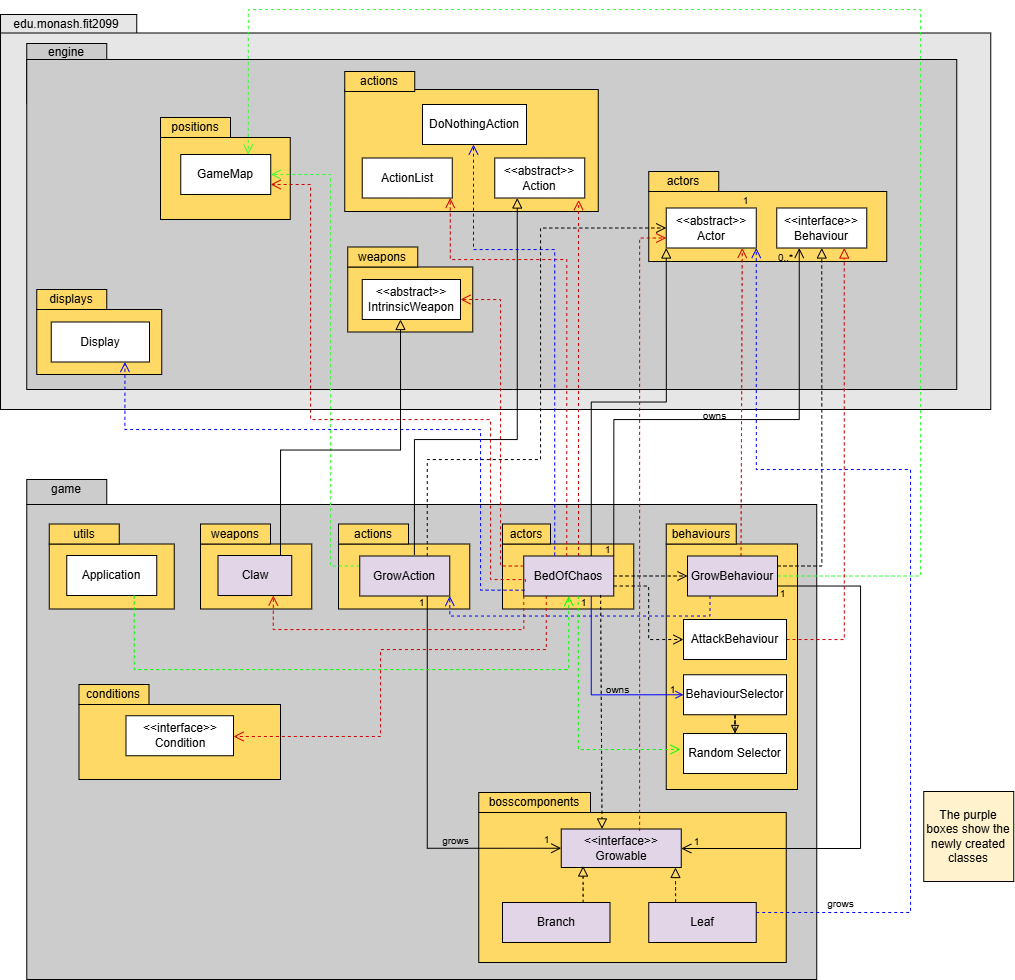
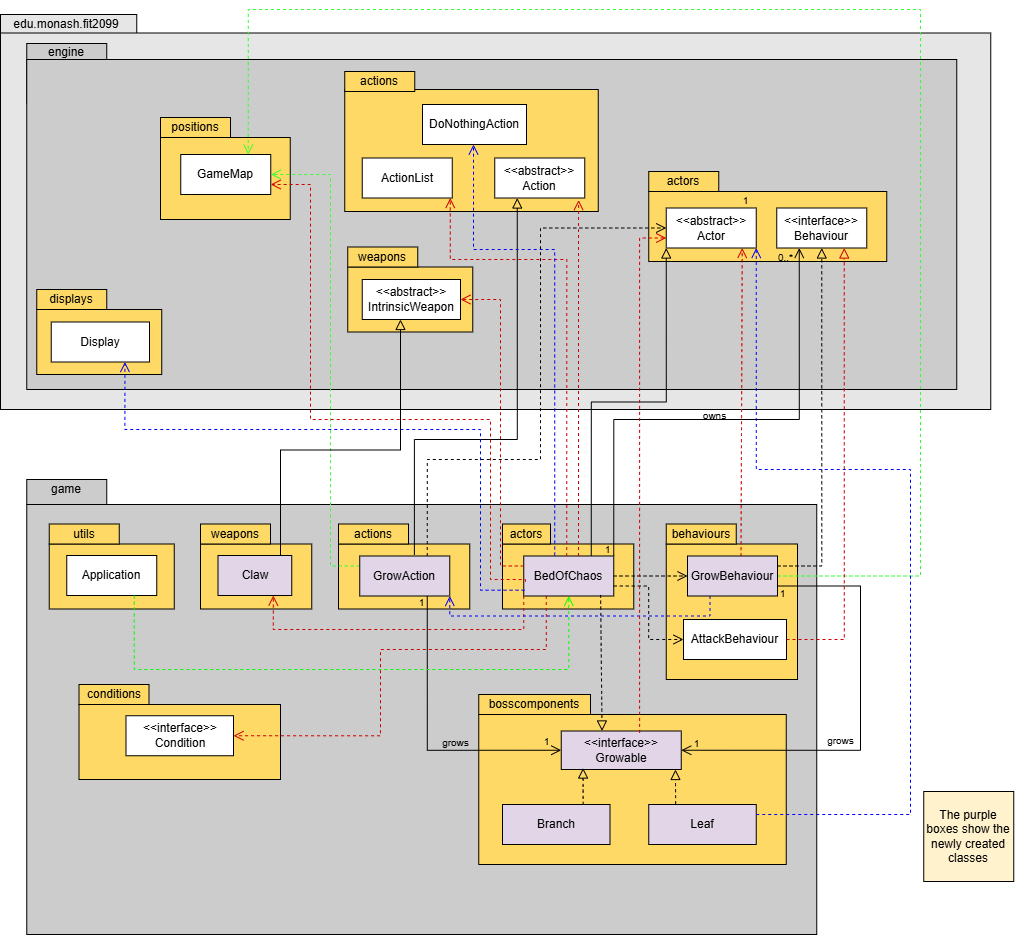
Rebase to resolve conflict

diff --git a/src/game/actors/BedOfChaos.java b/src/game/actors/BedOfChaos.java
@@ -55,61 +55,37 @@ public class BedOfChaos extends Actor implements Growable {
      */
     private static final int GROW_BEHAVIOUR_PRIORITY = 10;
 
-    /**
-     * Selector to decide which behaviour to perform.
-     */
-    private BehaviourSelector selector;
-
     private Random rand = new Random();
 
     /**
      * Constructs a new Bed of Chaos actor with initial behaviours.
-     * The behaviour selection is by ordered.
      * Sets the name, display character, and hitpoints.
      */
     public BedOfChaos() {
         super("Bed of Chaos\uD83D\uDE08\uD83C\uDF33", 'T', BED_OF_CHAOS_HITPOINTS);
-        this.selector = new OrderedSelector();
         behaviours = new TreeMap<>();
         this.behaviours.put(ATTACK_BEHAVIOUR_PRIORITY, new AttackBehaviour(Condition.ALWAYS));
         this.behaviours.put(GROW_BEHAVIOUR_PRIORITY, new GrowBehaviour(this));
     }
 
     /**
-     * Constructs a new Bed of Chaos actor with initial behaviours.
-     * The behaviour selection method can be defined.
-     * Sets the name, display character, and hitpoints.
-     */
-    public BedOfChaos(BehaviourSelector selector) {
-        super("Bed of Chaos\uD83D\uDE08\uD83C\uDF33", 'T', BED_OF_CHAOS_HITPOINTS);
-        this.selector = selector;
-        behaviours = new TreeMap<>();
-        this.behaviours.put(ATTACK_BEHAVIOUR_PRIORITY, new AttackBehaviour(Condition.ALWAYS));
-        this.behaviours.put(GROW_BEHAVIOUR_PRIORITY, new GrowBehaviour(this));
-    }
-
-    /**
-     * Determines what action the creature will take during its turn.
-     * Iterates through the creature's behaviors in priority order until one returns a valid action.
-     * If no behavior returns an action, the creature does nothing.
+     * Executes the next action for this Bed of Chaos based on its behaviours.
+     * Behaviours are checked in order of their priority, and the first available action is executed.
      *
-     * @param actions collection of possible actions
-     * @param lastAction the action performed last turn
-     * @param map the game map the creature is on
-     * @param display the display where the creature is rendered
-     * @return the action to be performed
+     * @param actions    the list of possible actions available
+     * @param lastAction the last action performed by this actor
+     * @param map        the map the actor is on
+     * @param display    the display to print messages
+     * @return the chosen {@link Action}, or {@link DoNothingAction} if none available
      */
-
     public Action playTurn(ActionList actions, Action lastAction, GameMap map, Display display) {
-        if (selector == null) {
-            selector = new OrderedSelector();
-        }
-        Action action = selector.selectAction(this, map, behaviours);
-        if (action != null) {
-            return action;
+        for (Behaviour behaviour : behaviours.values()) {
+            Action action = behaviour.getAction(this, map);
+            if (action != null) {
+                return action;
+            }
         }
         return new DoNothingAction();
-
     }
 
     /**

diff --git a/src/game/time/EnvironmentalStatusSystem.java b/src/game/time/EnvironmentalStatusSystem.java
@@ -75,8 +75,9 @@ public class EnvironmentalStatusSystem {
      */
     public void timeChanged() {
         WeatherEffect currentWeather = getCurrentWeather();
-        new Display().println(currentWeather.getColor() + "Today is a " + currentWeather + " " + currentWeather.getEmoji() + " day." + "\u001B[0m");
-        new Display().println("\u001B[36m" + "═══════════════════════════════════════════" + "\u001B[0m");
+        Display display = new Display();
+        display.println(currentWeather.getColor() + "Today is a " + currentWeather + " " + currentWeather.getEmoji() + " day." + "\u001B[0m");
+        display.println("\u001B[36m" + "═══════════════════════════════════════════" + "\u001B[0m");
         currentWeather.apply(player, map);
     }
 
@@ -96,7 +97,6 @@ public class EnvironmentalStatusSystem {
         if (weatherDuration >= WEATHER_DURATION_THRESHOLD) {
             if (random.nextDouble() < WEATHER_EVENT_PROBABILITY) {
                 currentWeather = weatherEffects.get(random.nextInt(weatherEffects.size()));
-                System.out.println(currentWeather);
                 WeatherEffect newWeather;
                 do {
                     newWeather = weatherEffects.get(random.nextInt(weatherEffects.size()));

diff --git a/src/game/grounds/Inheritree.java b/src/game/grounds/Inheritree.java
@@ -8,6 +8,7 @@ import edu.monash.fit2099.engine.positions.Exit;
 import edu.monash.fit2099.engine.positions.GameMap;
 import edu.monash.fit2099.engine.positions.Ground;
 import edu.monash.fit2099.engine.positions.Location;
+import game.actors.Ability;
 import game.actors.Status;
 
 /**
@@ -58,6 +59,9 @@ public class Inheritree extends Ground implements Plantable {
                 // Heal the actor
                 new Display().println("❤\u200D\uD83E\uDE79"+ actor + " health is increased by 5❤\uFE0F\u200D\uD83E\uDE79");
                 actor.heal(5);
+
+                actor.addCapability(Ability.BLOCK_ACID_RAIN);
+                new Display().println(actor + " is hiding near the Inheritree, blocking the acid rain.");
 
                 // Restore stamina if the actor has stamina attribute
                 if (actor.hasAttribute(BaseActorAttributes.STAMINA)) {

diff --git a/src/game/effects/WeatherEffect.java b/src/game/effects/WeatherEffect.java
@@ -32,6 +32,13 @@ public abstract class WeatherEffect {
     }
 
     /**
+     * Returns true if the rain is considered acid rain, false otherwise.
+     * Acid rain typically has a low pH and results from air pollution
+     * caused by substances like sulfur dioxide and nitrogen oxides.
+     */
+    public abstract boolean isAcidRain();
+
+    /**
      * Returns the color representation of this object.
      *
      * @return a string representing the color, typically used for UI or display purposes.

diff --git a/src/game/effects/SnowEffect.java b/src/game/effects/SnowEffect.java
@@ -71,6 +71,16 @@ public class SnowEffect extends WeatherEffect {
     }
 
     /**
+     * Indicates whether this snow instance is acid rain.
+     * Always returns false, since snow is not considered acid rain.
+     *
+     * @return false, indicating this snow is not acid rain.
+     */
+    public boolean isAcidRain() {
+        return false;
+    }
+
+    /**
      * Returns a textual representation of the weather condition.
      *
      * @return the string "Snow", indicating snowy weather.

diff --git a/src/game/effects/WarmEffect.java b/src/game/effects/WarmEffect.java
@@ -74,6 +74,16 @@ public class WarmEffect extends WeatherEffect {
     }
 
     /**
+     * Indicates whether this warm effect produces acid rain.
+     * Always returns false, as warm effects do not cause acid rain.
+     *
+     * @return false, indicating this warm effect is not acid rain.
+     */
+    public boolean isAcidRain() {
+        return false;
+    }
+
+    /**
      * Returns the string representation of this object.
      *
      * @return the string "Sunny".

diff --git a/src/game/items/Torch.java b/src/game/items/Torch.java
@@ -47,7 +47,7 @@ public class Torch extends Item implements Sellable {
         Display dp = new Display();
         WeatherEffect weather = EnvironmentalStatusSystem.getInstance().getCurrentWeather();
 
-        if (weather.toString().equals("Acid Rain")) {
+        if (weather.isAcidRain()) {
             if (!isOpen) {
                 dp.println("It's raining! " + actor + " can't light the " + this + ".");
                 return;

diff --git a/src/game/effects/AcidRainEffect.java b/src/game/effects/AcidRainEffect.java
@@ -41,6 +41,15 @@ public class AcidRainEffect extends WeatherEffect {
         return emoji;
     }
 
+    /**
+     * Indicates whether this rain instance is acid rain.
+     * Always returns true, as this instance represents acid rain.
+     *
+     * @return true, indicating this is acid rain.
+     */
+    public boolean isAcidRain() {
+        return true;
+    }
 
     /**
      * Applies the acid rain effect to the player.
